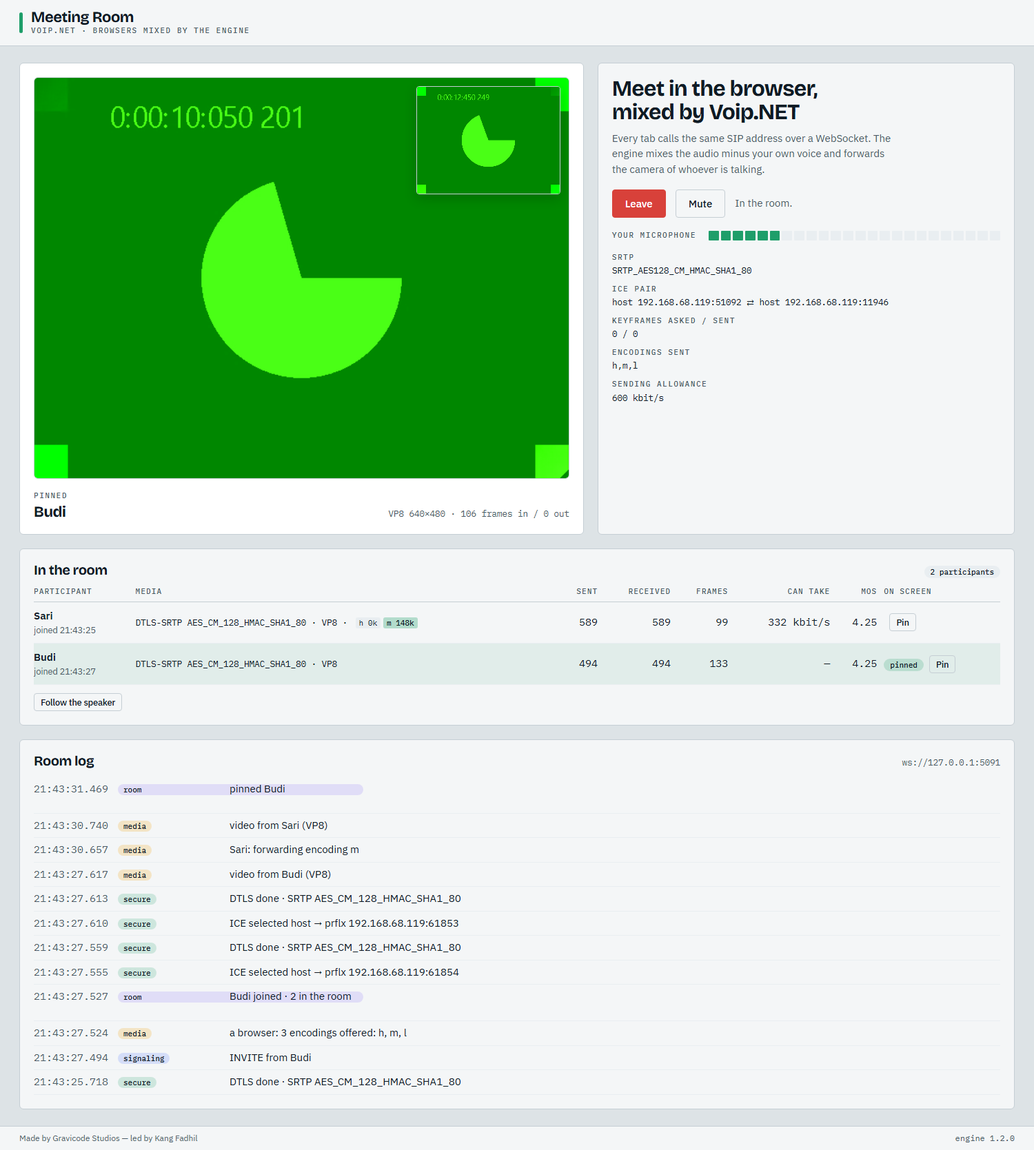
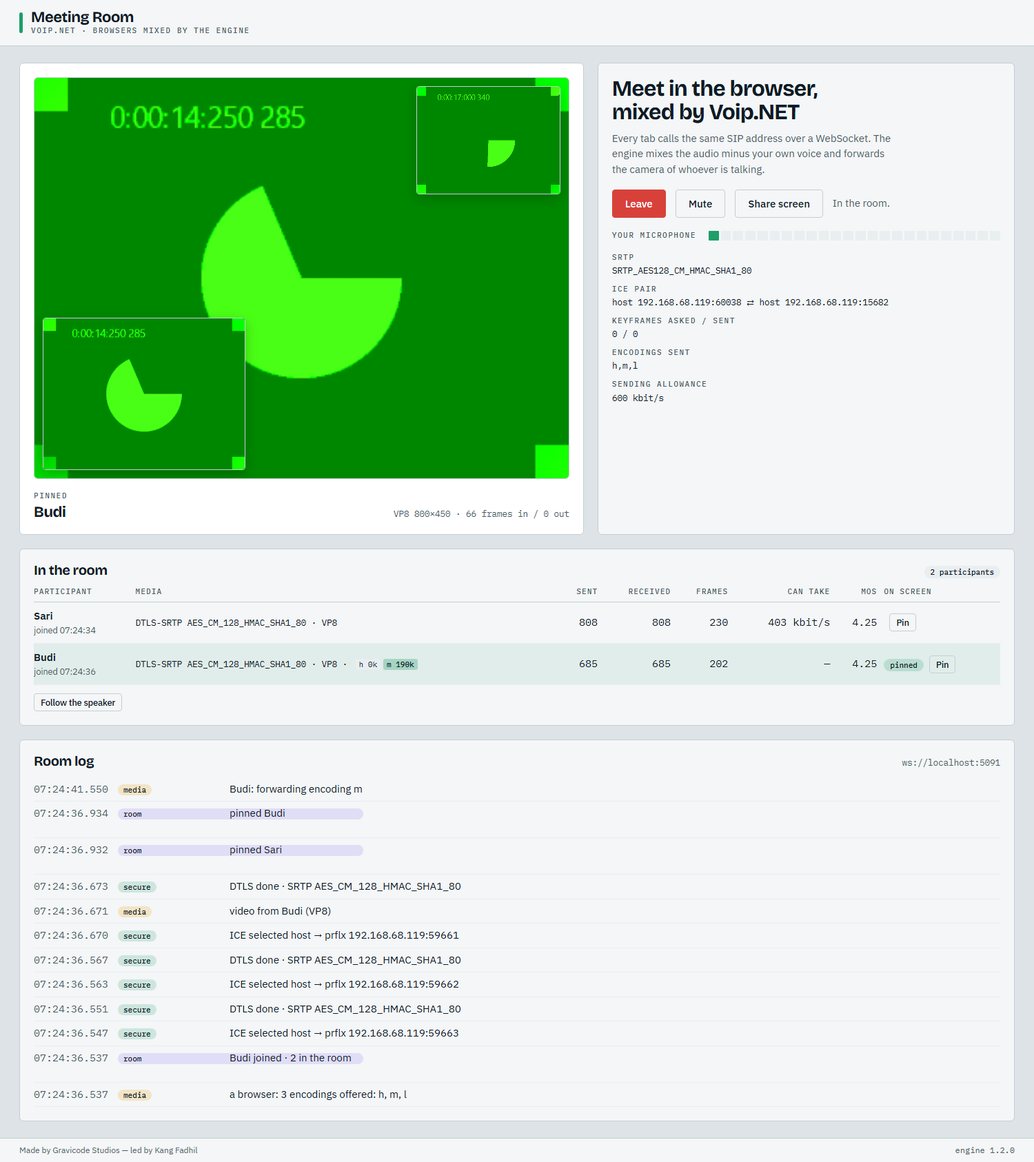
VoipNet: share a screen into the room, from a browser
The engine dropped a conference participant's screen share on the floor:
only the camera was routed by layout, and a screen has no floor to win.
It is now sent to everyone else who has a stream for one, untouched, and
a viewer's keyframe request reaches whoever is sharing as well as
whoever they are watching.

In the meeting sample each tab reserves that second video stream when it
joins, so sharing is a track swap rather than a new offer: press Share
screen, getDisplayMedia hands over the screen, and it appears beside the
faces in every other tab. A browser run by a test has no desktop to offer
and nobody to pick from it, so it asks for its own tab instead; a person
gets the ordinary picker. If the browser says no, the page says so rather
than leaving the button looking as though it did nothing.

The interop run shares a screen and fails if the other browser never sees
it, which is how this was found: the first attempt shared nothing at all
because the module function reached for state that belongs to a call.

diff --git a/VoipNet/samples/VoipNet.Meeting/wwwroot/meeting.js b/VoipNet/samples/VoipNet.Meeting/wwwroot/meeting.js
@@ -74,7 +74,35 @@ async function collectStats(pc) {
 }
 
 /** Joins the room. `view` receives OnPhase(phase, detail) and OnStats(stats). */
-export async function join(view, wsUrl, name, localVideo, stageVideo, audioElement) {
+/// Shares this tab's screen on the stream kept for it, or stops sharing and leaves it empty.
+export async function shareScreen(share) {
+    const state = session;
+    if (!state?.screen) return false;
+    if (!share) {
+        state.display?.getTracks().forEach(t => t.stop());
+        state.display = null;
+        await state.screen.sender.replaceTrack(null);
+        return false;
+    }
+
+    try {
+        // A browser run by a test has no desktop to offer and nobody to pick from it, so it asks for
+        // this tab instead; a person gets the ordinary picker.
+        const wanted = { video: { frameRate: 8 }, audio: false };
+        if (window.__captureCurrentTab === true) wanted.preferCurrentTab = true;
+        state.display = await navigator.mediaDevices.getDisplayMedia(wanted);
+    } catch {
+        // Somebody said no, or there is nothing to capture: the call carries on without it.
+        return false;
+    }
+
+    const [track] = state.display.getVideoTracks();
+    track.onended = () => shareScreen(false);
+    await state.screen.sender.replaceTrack(track);
+    return true;
+}
+
+export async function join(view, wsUrl, name, localVideo, stageVideo, audioElement, screenVideo) {
     leave();
     const host = new URL(wsUrl).host;
     const domain = `${token(8)}.invalid`;
@@ -138,11 +166,19 @@ export async function join(view, wsUrl, name, localVideo, stageVideo, audioEleme
                 pc.addTrack(track, state.stream);
             }
         }
+        // A second video stream, reserved for a shared screen and empty until somebody shares one.
+        // Having it from the start means sharing is a track swap rather than a new offer, and the
+        // room has somewhere to send a screen the moment one appears.
+        state.screen = pc.addTransceiver("video", { direction: "sendrecv" });
+
         pc.ontrack = e => {
-            const element = e.track.kind === "video" ? stageVideo : audioElement;
+            const element = e.track.kind !== "video"
+                ? audioElement
+                : e.transceiver === state.screen ? screenVideo : stageVideo;
             if (!element) return;
             element.srcObject = e.streams[0] ?? new MediaStream([e.track]);
             element.play().catch(() => { });
+
         };
         pc.onconnectionstatechange = () => report(`pc-${pc.connectionState}`);
         state.pendingCandidates = [];
@@ -158,7 +194,12 @@ export async function join(view, wsUrl, name, localVideo, stageVideo, audioEleme
         report("inviting", name);
 
         state.timer = setInterval(async () => {
-            if (state.pc && !state.ended) view.invokeMethodAsync("OnStats", await collectStats(state.pc));
+            if (!state.pc || state.ended) return;
+            const stats = await collectStats(state.pc);
+            // A stream with nothing on it reads as muted, which is how a screen nobody is sharing
+            // looks — the m-line is there from the start, waiting for one.
+            stats.screenShared = state.screen?.receiver?.track?.muted === false;
+            view.invokeMethodAsync("OnStats", stats);
         }, 500);
     } catch (err) {
         finish(state, report, err.message ?? String(err), true);

diff --git a/VoipNet/samples/VoipNet.Meeting/wwwroot/app.css b/VoipNet/samples/VoipNet.Meeting/wwwroot/app.css
@@ -189,6 +189,22 @@ table.grid td.num { font-family: var(--mono); text-align: right; }
 }
 .stage-frame video.self.hidden { display: none; }
 
+/* A shared screen takes the bottom-left corner: large enough to read, small enough to leave the
+   speaker's face alone. */
+.stage-frame video.shared {
+    position: absolute;
+    left: 12px;
+    bottom: 12px;
+    width: 38%;
+    height: auto;
+    background: #0a0c0f;
+    border: 1px solid var(--hairline);
+    border-radius: 4px;
+    box-shadow: 0 6px 18px rgb(0 0 0 / .22);
+}
+
+.stage-frame video.shared.hidden { display: none; }
+
 .stage-caption { display: flex; align-items: end; justify-content: space-between; gap: 16px; margin: 0; }
 .on-screen { font-size: 22px; margin-top: 2px; }
 

diff --git a/VoipNet/native/voipnet-core/src/sip/endpoint.rs b/VoipNet/native/voipnet-core/src/sip/endpoint.rs
@@ -2248,6 +2248,31 @@ impl Inner {
         }]
     }
 
+    /// Sends a shared screen to everyone else in the room, on the stream they have for one.
+    ///
+    /// Unlike the camera there is nothing to choose: a screen is not in competition with anything, so
+    /// it goes to every participant that has a stream to receive it on. Giving them one is the
+    /// application's business — it decides who may share and who should see it — and until it does,
+    /// the frames have nowhere to go and are dropped.
+    fn forward_conference_screen(&self, from: u64, frame: &[u8], content: &str) {
+        let sessions: Vec<Arc<MediaSession>> = {
+            let st = self.state.lock();
+            let Some(call) = st.calls.get(&from) else { return };
+            let Some(media) = call.media.as_ref() else { return };
+            let Some(conference) = media.conference() else { return };
+            conference
+                .participants()
+                .into_iter()
+                .filter(|id| *id != from)
+                .filter_map(|id| st.calls.get(&id))
+                .filter_map(|call| call.videos.iter().find(|v| v.content == content).and_then(|v| v.session.clone()))
+                .collect()
+        };
+        for session in sessions {
+            session.forward_video_frame(frame);
+        }
+    }
+
     /// Passes a viewer's keyframe request on to the participant it is watching.
     ///
     /// A browser that joins a room mid-stream, or loses the picture, asks its peer — us — for a
@@ -2276,14 +2301,30 @@ impl Inner {
         if let Some(session) = session {
             session.request_keyframe(false);
         }
+
+        // The request does not say which stream it is about, so anybody sharing a screen is asked too.
+        let sharing: Vec<Arc<MediaSession>> = {
+            let state = self.state.lock();
+            state
+                .calls
+                .values()
+                .filter(|call| call.id != viewer)
+                .filter_map(|call| call.videos.iter().find(|v| v.content != "main"))
+                .filter_map(|v| v.session.clone())
+                .collect()
+        };
+        for session in sharing {
+            session.request_keyframe(false);
+        }
     }
 
     /// Sends a conference participant's video on to whoever the layout says should see it.
     ///
     /// Forwarded, not mixed: the frame goes out on each viewer's own video stream exactly as it came in.
     fn forward_conference_video(&self, from: u64, keyframe: bool, frame: &[u8], content: &str) {
-        // Screen shares are their own stream on their own call; only the camera is routed by layout.
+        // A shared screen is its own stream and has no floor to win: everybody sees it at once.
         if content != "main" {
+            self.forward_conference_screen(from, frame, content);
             return;
         }
 
@@ -4577,6 +4618,76 @@ m=audio {} RTP/AVP 0\r\na=rtpmap:0 PCMU/8000\r\n",
 
         for leg in legs {
             let _ = host.hangup(leg);
+        }
+    }
+
+    #[test]
+    fn a_shared_screen_reaches_everyone_in_the_room() {
+        // One guest shares a screen; the other should see it on their own screen stream, without the
+        // floor being involved at all — a screen is not in competition with a face.
+        let mut host_cfg = cfg("host");
+        host_cfg.video = true;
+        let host_rec = Arc::new(Recorder::default());
+        let host = Endpoint::start(host_cfg, host_rec.clone()).unwrap();
+
+        let mut guests = Vec::new();
+        for name in ["sharer", "watcher"] {
+            let mut c = cfg(name);
+            c.video = true;
+            let rec = Arc::new(Recorder::default());
+            let endpoint = Endpoint::start(c, rec.clone()).unwrap();
+            guests.push((endpoint, rec, name));
+        }
+
+        let conference = host.conference_create();
+        let mut host_legs = Vec::new();
+        for (endpoint, rec, name) in &guests {
+            let target = format!("sip:{name}@{}", endpoint.local_address());
+            let host_call = host.make_call(&target).unwrap();
+            let Some(Event::IncomingCall { call_id, .. }) = rec.wait_for(4000, |e| matches!(e, Event::IncomingCall { .. })) else {
+                panic!("{name} was not called");
+            };
+            endpoint.answer(call_id).unwrap();
+            host_rec
+                .wait_for(4000, |e| matches!(e, Event::CallState { call_id: id, state: "connected", .. } if *id == host_call))
+                .expect("host connected");
+            rec.wait_for(4000, |e| matches!(e, Event::MediaEvent { kind, detail, .. } if kind == "video" && detail.starts_with("main H264")))
+                .expect("guest video");
+            host.conference_add(conference, host_call).unwrap();
+            host_legs.push(host_call);
+        }
+
+        // Both legs get a screen stream: the one that shares, and the one that watches. Who is
+        // allowed to share is the application's decision, which is why the room does not do this.
+        for leg in &host_legs {
+            host.share_screen(*leg).unwrap();
+        }
+
+        for (_, rec, name) in &guests {
+            rec.wait_for(4000, |e| matches!(e, Event::MediaEvent { kind, detail, .. } if kind == "video" && detail.starts_with("slides")))
+                .unwrap_or_else(|| panic!("{name} has no screen stream"));
+        }
+
+        let mut screen = vec![0, 0, 0, 1, 0x67, 0x42, 0xe0, 0x1f];
+        screen.extend_from_slice(&[0, 0, 0, 1, 0x65]);
+        screen.extend((0..1500).map(|i| (i % 241) as u8 | 1));
+
+        let mut seen = Vec::new();
+        for i in 0..20u32 {
+            let call = guests[0].0.calls()[0].call_id;
+            guests[0].0.send_video_frame(call, 90_000 + (i * 3000), &screen, "slides").unwrap();
+            seen = guests[1].1.wait_video(1, 250);
+            if seen.iter().any(|(_, _, _, content)| content == "slides") {
+                break;
+            }
+        }
+
+        let shared = seen.iter().find(|(_, _, _, content)| content == "slides");
+        assert!(shared.is_some(), "the other guest saw the shared screen: {seen:?}");
+        assert_eq!(shared.expect("a frame").2, screen, "and it is the picture that was shared");
+
+        for (endpoint, _, _) in &guests {
+            let _ = endpoint.hangup(endpoint.calls()[0].call_id);
         }
     }
 

diff --git a/VoipNet/tools/VoipNet.DocShots/Program.cs b/VoipNet/tools/VoipNet.DocShots/Program.cs
@@ -214,6 +214,19 @@ static async Task<int> MeetingAsync(string baseUrl, string output)
         Console.WriteLine($"{name} sees: {await browser.EvaluateAsync("(document.querySelector('.on-screen')?.innerText ?? '') + ' | ' + (document.querySelector('.stage-caption .mono')?.innerText ?? '') + ' | ' + [...document.querySelectorAll('.facts div')].map(d => d.innerText.replace(String.fromCharCode(10), ': ')).join(' ; ')")}");
     }
 
+    // One of them shares a screen: it has a stream of its own, so it arrives beside the faces rather
+    // than replacing one, and the room sends it to everybody without the floor being involved.
+    // Headless Chrome has no desktop to share, so the page is told to offer its own tab instead.
+    await second.EvaluateAsync("window.__captureCurrentTab = true");
+    await second.EvaluateAsync("[...document.querySelectorAll('button')].find(b => b.innerText.includes('Share screen'))?.click()");
+    await Task.Delay(TimeSpan.FromSeconds(3));
+    Console.WriteLine($"sharer says: {await second.EvaluateAsync("document.querySelector('.status')?.innerText ?? ''")}"
+        + $" · buttons: {await second.EvaluateAsync("[...document.querySelectorAll('button')].map(b => b.innerText).join('/')")}");
+    var shared = await first.WaitForAsync(
+        "(() => { const v = document.querySelector('.stage-frame video.shared'); return v && v.videoWidth > 0 && !v.classList.contains('hidden'); })()",
+        TimeSpan.FromSeconds(45));
+    Console.WriteLine($"shared screen seen by the other browser: {shared}");
+
     // The second participant stays pinned for the shot, so the picture is settled.
     await Task.Delay(TimeSpan.FromSeconds(6));
     var pinnedIn = Number(await first.EvaluateAsync("""
@@ -233,9 +246,9 @@ static async Task<int> MeetingAsync(string baseUrl, string output)
     Console.WriteLine(await first.EvaluateAsync("document.querySelector('.on-screen')?.innerText ?? ''"));
     var width = Number(await first.EvaluateAsync("document.querySelector('.stage-frame video').videoWidth"));
 
-    var ok = joined == 2 && picture && second_picture;
+    var ok = joined == 2 && picture && second_picture && shared;
     Console.WriteLine($"forwarded video: {width}px wide");
-    Console.WriteLine(ok ? "meeting: OK" : $"meeting: FAILED (joined={joined}, first sees video={picture}, second sees video={second_picture})");
+    Console.WriteLine(ok ? "meeting: OK" : $"meeting: FAILED (joined={joined}, first sees video={picture}, second sees video={second_picture}, screen shared={shared})");
     return ok ? 0 : 1;
 }
 

diff --git a/VoipNet/tools/VoipNet.DocShots/Chromium.cs b/VoipNet/tools/VoipNet.DocShots/Chromium.cs
@@ -34,7 +34,7 @@ internal sealed class Chromium : Browser
         // --no-sandbox is needed on CI images that run without user namespaces, and /dev/shm there is
         // too small for Chrome's default shared memory use.
         var process = Process.Start(new ProcessStartInfo(path,
-            $"--headless=new --disable-gpu --no-sandbox --disable-dev-shm-usage --hide-scrollbars --use-fake-device-for-media-stream --use-fake-ui-for-media-stream --autoplay-policy=no-user-gesture-required --no-first-run --remote-debugging-port={port} --user-data-dir=\"{NewProfileFolder()}\" --window-size={Width},{Height} about:blank")
+            $"--headless=new --disable-gpu --no-sandbox --disable-dev-shm-usage --hide-scrollbars --use-fake-device-for-media-stream --use-fake-ui-for-media-stream --auto-select-desktop-capture-source=\"Entire screen\" --auto-accept-this-tab-capture --allow-http-screen-capture --autoplay-policy=no-user-gesture-required --no-first-run --remote-debugging-port={port} --user-data-dir=\"{NewProfileFolder()}\" --window-size={Width},{Height} about:blank")
         {
             UseShellExecute = false,
             RedirectStandardOutput = true,

diff --git a/VoipNet/native/voipnet-core/src/media/conference.rs b/VoipNet/native/voipnet-core/src/media/conference.rs
@@ -176,6 +176,11 @@ impl Conference {
         Some(view.source)
     }
 
+    /// Everybody in the room, by call.
+    pub fn participants(&self) -> Vec<u64> {
+        self.participants.lock().keys().copied().collect()
+    }
+
     pub fn len(&self) -> usize {
         self.participants.lock().len()
     }

diff --git a/VoipNet/PLAN.md b/VoipNet/PLAN.md
@@ -20,7 +20,7 @@ Today H.264, VP8 and VP9 are negotiated as pass-through payloads only. This mile
 
 - **Video call support** — voice + video in one SIP session: `m=video` offer/answer next to audio, a second RTP stream per call, H.264 (RFC 6184) and VP8 (RFC 7741) packetisation with frame assembly, the .NET API `VoipCall.SendVideoFrame`/`VideoFrameReceived` and keyframe requests (RTCP PLI/FIR, automatic on loss and on demand through `RequestKeyframe`) (all done); still to do: platform codecs and capture beyond Windows — `VoipNet.Video` encodes and decodes H.264 and reads a camera through Media Foundation; VideoToolbox, VA-API/FFmpeg, AVFoundation and V4L2 are not wired up. · **Dukungan panggilan video** — suara + video dalam satu sesi SIP: offer/answer `m=video`, stream RTP kedua per panggilan, paketisasi H.264/VP8, jitter buffer dan perakitan frame, permintaan keyframe (PLI/FIR), estimasi bandwidth (REMB), sinkronisasi bibir lewat sender report; API .NET untuk frame video, kamera, serta encode/decode via codec platform.
 - **Video conferencing** — speaker-focus and pin are done (the bridge forwards one participant's video to the rest, with active-speaker detection and a keyframe before each switch); still to do: SVC layer selection. Simulcast goes both ways now: `VideoEncodings` offers several encodings and `SendVideoFrameAs` labels each frame, and a peer's encodings are measured and chosen between. `VideoCompositor` lays several pictures out in a grid, picture-in-picture or spotlight, which with the platform codec is the mixing half of a conference; the engine itself still forwards rather than mixes. · **Konferensi video** — video multipihak dengan kontrol layout: mode mixing (compositor grid, fokus pembicara, picture-in-picture berdasarkan deteksi pembicara aktif) dan mode SFU dengan simulcast/SVC; mute, pin, dan spotlight per peserta.
-- **Screen sharing**: the second video stream (`a=content:slides`, offered and withdrawn by re-INVITE, frames labelled per stream) is done; still to do: capture beyond the GDI copy `VideoCapture.OpenScreen` does (Desktop Duplication for the rate a driver will not give through GDI, ScreenCaptureKit, PipeWire), BFCP-style floor control, browser sharing via `getDisplayMedia`, and a Blazor sample (the Softphone shares its screen as a second stream). · **Berbagi layar** untuk aplikasi desktop/web: tangkap layar, jendela, atau area, kirim sebagai stream video kedua dengan floor control, encoding yang dioptimalkan untuk konten; di browser lewat `getDisplayMedia` lewat jalur media WebRTC yang sudah ada.
+- **Screen sharing**: the second video stream (`a=content:slides`, offered and withdrawn by re-INVITE, frames labelled per stream) is done; still to do: capture beyond the GDI copy `VideoCapture.OpenScreen` does (Desktop Duplication for the rate a driver will not give through GDI, ScreenCaptureKit, PipeWire), BFCP-style floor control, and BFCP-style floor control. Sharing works from the desktop (the Softphone) and from a browser (`getDisplayMedia` in the meeting sample, forwarded to everyone in the room). · **Berbagi layar** untuk aplikasi desktop/web: tangkap layar, jendela, atau area, kirim sebagai stream video kedua dengan floor control, encoding yang dioptimalkan untuk konten; di browser lewat `getDisplayMedia` lewat jalur media WebRTC yang sudah ada.
 - **Video recording** — done for a single call: `RecordingFormat.Mp4` (H.264 with PCM audio, one duration per frame from the RTP timestamps) and `RecordingFormat.Avi` (H.264 or VP8, one measured frame rate), neither re-encoding anything. Still to do: AAC audio, which needs an encoder this SDK does not carry, and in-browser playback of video recordings in the Call Centre sample; `ConferenceRecorder` records a whole room as one composed picture with the voices mixed. · **Perekaman video** — untuk satu panggilan sudah selesai: `RecordingFormat.Mp4` (H.264 + audio PCM, durasi tiap frame dari timestamp RTP) dan `RecordingFormat.Avi`, keduanya tanpa encode ulang. Sisanya: audio AAC (butuh encoder), rekaman konferensi dari keluaran compositor, dan pemutaran di sample Call Centre.
 - **Samples and tools** — the Blazor meeting page (`samples/VoipNet.Meeting`), `voipnet sip call --video` and RTP video stream analysis are done; still to do: video in the Gallery sample. The Softphone sends its camera and shows what arrives, where the platform has a codec. · **Sample dan tools** — halaman rapat Blazor, `voipnet sip call --video`, dan analisis stream video RTP sudah ada; sisanya video di sample Softphone dan Gallery.
 - **GPU acceleration** — `VoipNet.Video` takes a card's encoder when it will work from ordinary memory and says which one it got (`IVideoEncoder.Implementation`); still to do: the asynchronous transform model most cards want (NVENC, Quick Sync, AMF, VideoToolbox), Direct3D surfaces end to end, and GPU scaling/compositing for conferences. · **Akselerasi GPU** — encoder kartu grafis dipakai bila mau bekerja dari memori biasa; sisanya model transform asinkron, surface Direct3D, dan compositing GPU.

diff --git a/VoipNet/CLAUDE.md b/VoipNet/CLAUDE.md
@@ -44,7 +44,7 @@ dotnet run --project tests/VoipNet.Tests -- -class VoipNet.Tests.EnterpriseTests
 - `media/zrtp.rs`: sans-IO ZRTP (RFC 6189) — Hello/Commit/DHPart/Confirm on the media port, EC25 via ring, AES-128 CFB for Confirm, base32 SAS. `classify` gives ZRTP its own packet class; `MediaSession::enable_zrtp` starts it once the peer address is known, and the derived keys replace the (clear) RTP mid-call.
 - `media/dtls.rs`: DTLS-SRTP on dimpl (sans-IO, pure Rust, `rust-crypto` feature — keep aws-lc out of the tree). The DTLS engine must get `handle_timeout` before its first packet. `secure_required` on a session blocks plain RTP until keys arrive; only call `enable_dtls()` when DTLS is really negotiated.
 - `native/voipnet-core/benches/media.rs`: criterion benchmarks (`cargo bench --bench media`) for codecs, SRTP and the conference mixer; CI runs them briefly. Shared runners and laptops are too noisy for differences under ~20%, so treat single runs with suspicion.
-- `media/conference.rs`: mix-minus audio plus video routing. Video is forwarded, never mixed: `video_targets` picks the active speaker (energy measured in `contribute`, with hold and margin) or the pinned call, and holds a viewer back until a keyframe arrives. `SinkAdapter::on_video_frame` calls `Inner::forward_conference_video`, which sends the frame on each viewer's own video session.
+- `media/conference.rs`: mix-minus audio plus video routing. A shared screen (`a=content:slides`) skips the layout entirely — `forward_conference_screen` sends it to every other participant that has a stream for one, since a screen is not in competition with a face. Video is forwarded, never mixed: `video_targets` picks the active speaker (energy measured in `contribute`, with hold and margin) or the pinned call, and holds a viewer back until a keyframe arrives. `SinkAdapter::on_video_frame` calls `Inner::forward_conference_video`, which sends the frame on each viewer's own video session.
 - `rtp/quality.rs`: burst/gap classification (RFC 3611) fed from the playout loop.
 - `rtp/video.rs`: H.264/VP8 RTP packetisation and frame reassembly. Simulcast (RFC 8853) goes both ways: `VideoTrack::layers` keeps one depacketiser per `a=rid`, read from the RTP header extension (`RtpPacketRef::rid`) or, once a browser stops labelling, from the SSRC it first arrived on; `choose_layer`/`best_layer` keep the encoding that fits the receivers' REMB and ask for a keyframe on every change. Sending is `EndpointConfig::video_encodings` → `a=rid:… send`/`a=simulcast:send` on the `main` stream plus `send_video_frame_as`, which writes the encoding name into each packet's one-byte extension (`RtpHeader::write_with`). A call with `video: true` gets a `MediaSession` per video stream (`Call::videos`, in m-line order: `main`, then `slides` for a screen share) put in video mode with `enable_video`, negotiated by `negotiate_video_offers`/`apply_video_answer`; frames carry their stream's `a=content` label through `send_video_frame` and `MediaSink::on_video_frame`. A withdrawn stream keeps its m-line (port 0) so both sides keep counting alike. Encoding is the application's job (PLAN 1.3).
 - `rtp/packet.rs` also builds and parses RTCP: SR/RR with report blocks, PLI/FIR and REMB (`build_receiver_estimate`, `RtcpPacket::ReceiverEstimate`); `BandwidthEstimator` in `media/session.rs` produces the number a video stream reports, and the peer's estimate lands in `MediaStats::remote_estimate_bps`. `media/session.rs` sends one a second into the call and every 4 s (video streams included — `send_encoded` keeps the sender counters, which is what lip sync reads through `presentation_ntp`/`playout_ntp`), and feeds the peer's numbers (loss, jitter, RTT) to `AudioCodec::set_network_quality`, which is how Opus adapts.

diff --git a/VoipNet/Progress.md b/VoipNet/Progress.md
@@ -86,7 +86,7 @@ Planned in · Direncanakan di [PLAN.md 1.3](PLAN.md#13---video--fitur-video).
 | --- | --- | --- |
 | Video call support — voice + video in one SIP session · panggilan suara + video dalam satu sesi SIP | 🟡 | `VoipClientOptions.Video` offers and accepts an `m=video` stream next to audio: a second RTP stream per call with its own port, SDES/DTLS-SRTP and ICE, H.264 (RFC 6184 FU-A/STAP-A) and VP8 (RFC 7741) packetisation with frame reassembly and keyframe detection, `VoipCall.SendVideoFrame` and `VideoFrameReceived`, plus keyframe requests in both directions (RTCP PLI/FIR, sent automatically when a frame loses packets). `VoipNet.Video` encodes and decodes H.264 and reads a camera through the platform codec (Media Foundation; Windows only so far), so an application can hand over pixels, or ask for them, rather than carrying a codec of its own · engine plus `VoipNet.Video` untuk encode/decode H.264 dan membaca kamera lewat codec platform (baru Windows) |
 | Video conferencing with layout control · konferensi video multipihak dengan kontrol layout | 🟡 | the bridge forwards one participant's video to everyone else — the active speaker (picked from the audio it already mixes, with hold and margin) or a pinned call — and holds a switch until the new source sends a keyframe. For a mixed grid, `VideoCompositor` in `VoipNet.Video` lays decoded pictures out (grid, picture-in-picture, spotlight) for an application to encode and send as one stream; the engine itself forwards rather than mixes · bridge meneruskan video pembicara aktif atau peserta yang dipin; `VideoCompositor` menyusun grid untuk aplikasi yang mau mencampur sendiri |
-| Screen sharing (desktop & web) · berbagi layar (desktop & web) | 🟡 | `ShareScreen()` offers a second `m=video` marked `a=content:slides` in a re-INVITE, frames carry the label in both directions, and `StopScreenShare()` withdraws it with port 0; `VideoCapture.OpenScreen` copies the screen (Windows, through GDI; the rate a driver allows varies enormously) and `VoipNet.Video` encodes it; Desktop Duplication, ScreenCaptureKit and PipeWire are not wired up · stream layar kedua sudah dinegosiasikan dan dilabeli; `VideoCapture.OpenScreen` menyalin layar di Windows |
+| Screen sharing (desktop & web) · berbagi layar (desktop & web) | 🟡 | `ShareScreen()` offers a second `m=video` marked `a=content:slides` in a re-INVITE, frames carry the label in both directions, and `StopScreenShare()` withdraws it with port 0; `VideoCapture.OpenScreen` copies the screen (Windows, through GDI; the rate a driver allows varies enormously) and `VoipNet.Video` encodes it; in a conference a shared screen is forwarded to everyone at once, and the meeting sample shares from the browser with `getDisplayMedia`. Desktop Duplication, ScreenCaptureKit and PipeWire are not wired up · stream layar kedua sudah dinegosiasikan dan dilabeli; `VideoCapture.OpenScreen` menyalin layar di Windows |
 | Video recording to MP4/AVI · perekaman audio + video ke MP4/AVI | 🟡 | `RecordingFormat.Mp4` writes the call's own H.264 with each frame's RTP timestamp as its duration, and `RecordingFormat.Avi` writes H.264 or VP8 at one measured frame rate; neither re-encodes anything. The audio is PCM in both, because the SDK carries no AAC encoder. `ConferenceRecorder` records a whole conference as one picture — every participant decoded, composed into a grid, encoded once, voices mixed — which needs a platform codec and H.264 participants · MP4 dan AVI tanpa encode ulang; `ConferenceRecorder` merekam seluruh ruangan sebagai satu gambar |
 
 ## AI call centre · AI call center

diff --git a/VoipNet/docs/id/tools-and-diagnostics.md b/VoipNet/docs/id/tools-and-diagnostics.md
@@ -163,6 +163,18 @@ Berikan `ILogger<VoipClient>`; event log engine (deteksi NAT, kegagalan kirim, e
 
 Empat belas halaman langsung: overview, melakukan panggilan, codec, DTMF, hold dan transfer, konferensi, video (di-encode, dikirim lewat panggilan nyata, lalu dibandingkan dengan yang kembali), perekaman, SRTP, model bahasa (dengan tool call nyata), voice agent, builder IVR, antrean dan agen, diagnostik. Setiap halaman menampilkan kode C# yang melakukan hal yang sama. Atur model dengan `VOIPNET_AI_ENDPOINT`, `VOIPNET_AI_KEY`, `VOIPNET_AI_MODEL`.
 
+### Ruang rapat (Blazor Server)
+
+Setiap tab menelepon alamat SIP yang sama lewat WebSocket dan bergabung ke satu konferensi, sehingga
+engine mencampur audionya dan meneruskan kamera siapa pun yang sedang bicara. **Share screen** memakai
+`getDisplayMedia` pada stream video kedua yang disiapkan tiap tab saat bergabung — ruangan mengirimnya
+ke semua orang sekaligus, karena layar tidak bersaing memperebutkan panggung — dan kamera si pembagi
+tetap berjalan di sampingnya.
+
+`dotnet run --project tools/VoipNet.DocShots -- meeting <baseUrl> docs/images` menjalankan dua browser
+melewati semuanya dan gagal bila salah satunya tidak bisa mendekode yang lain, atau layar yang
+dibagikan tidak pernah sampai.
+
 ### Call Centre (Blazor Server)
 
 Sebuah PBX, lima softphone agen, dan generator trafik Poisson — semuanya SIP/RTP nyata di loopback. Wallboard dengan service level, penelepon yang menunggu digambar terhadap targetnya, papan agen, kualitas panggilan langsung, event, kontrol trafik, dan **supervisor AI**; halaman Recordings dengan pemutaran di browser.

diff --git a/VoipNet/docs/en/tools-and-diagnostics.md b/VoipNet/docs/en/tools-and-diagnostics.md
@@ -174,6 +174,16 @@ Pass an `ILogger<VoipClient>`; engine log events (NAT discovery, send failures, 
 
 Fourteen live pages: overview, place a call, codecs, DTMF, hold and transfer, conference, video (encoded, sent over a real call and compared with what comes back), recording, SRTP, language models (with a real tool call), voice agent, IVR builder, queues and agents, diagnostics. Each page shows the C# that does what the demo does. Configure models with `VOIPNET_AI_ENDPOINT`, `VOIPNET_AI_KEY`, `VOIPNET_AI_MODEL`.
 
+### Meeting room (Blazor Server)
+
+Every tab calls the same SIP address over a WebSocket and joins one conference, so the engine mixes the
+audio and forwards the speaker's camera. **Share screen** uses `getDisplayMedia` on a second video
+stream that each tab reserves when it joins — the room sends it to everybody at once, since a screen
+has no floor to win — and the sharer's own picture carries on beside it.
+
+`dotnet run --project tools/VoipNet.DocShots -- meeting <baseUrl> docs/images` drives two browsers
+through all of it and fails if either one cannot decode the other, or the shared screen never arrives.
+
 ### Call Centre (Blazor Server)
 
 A PBX, five agent softphones and a Poisson traffic generator, all real SIP/RTP on loopback. Wallboard with service level, waiting callers drawn against their target, agent board, live call quality, events, traffic controls and an **AI supervisor**; a Recordings page with in-browser playback.
